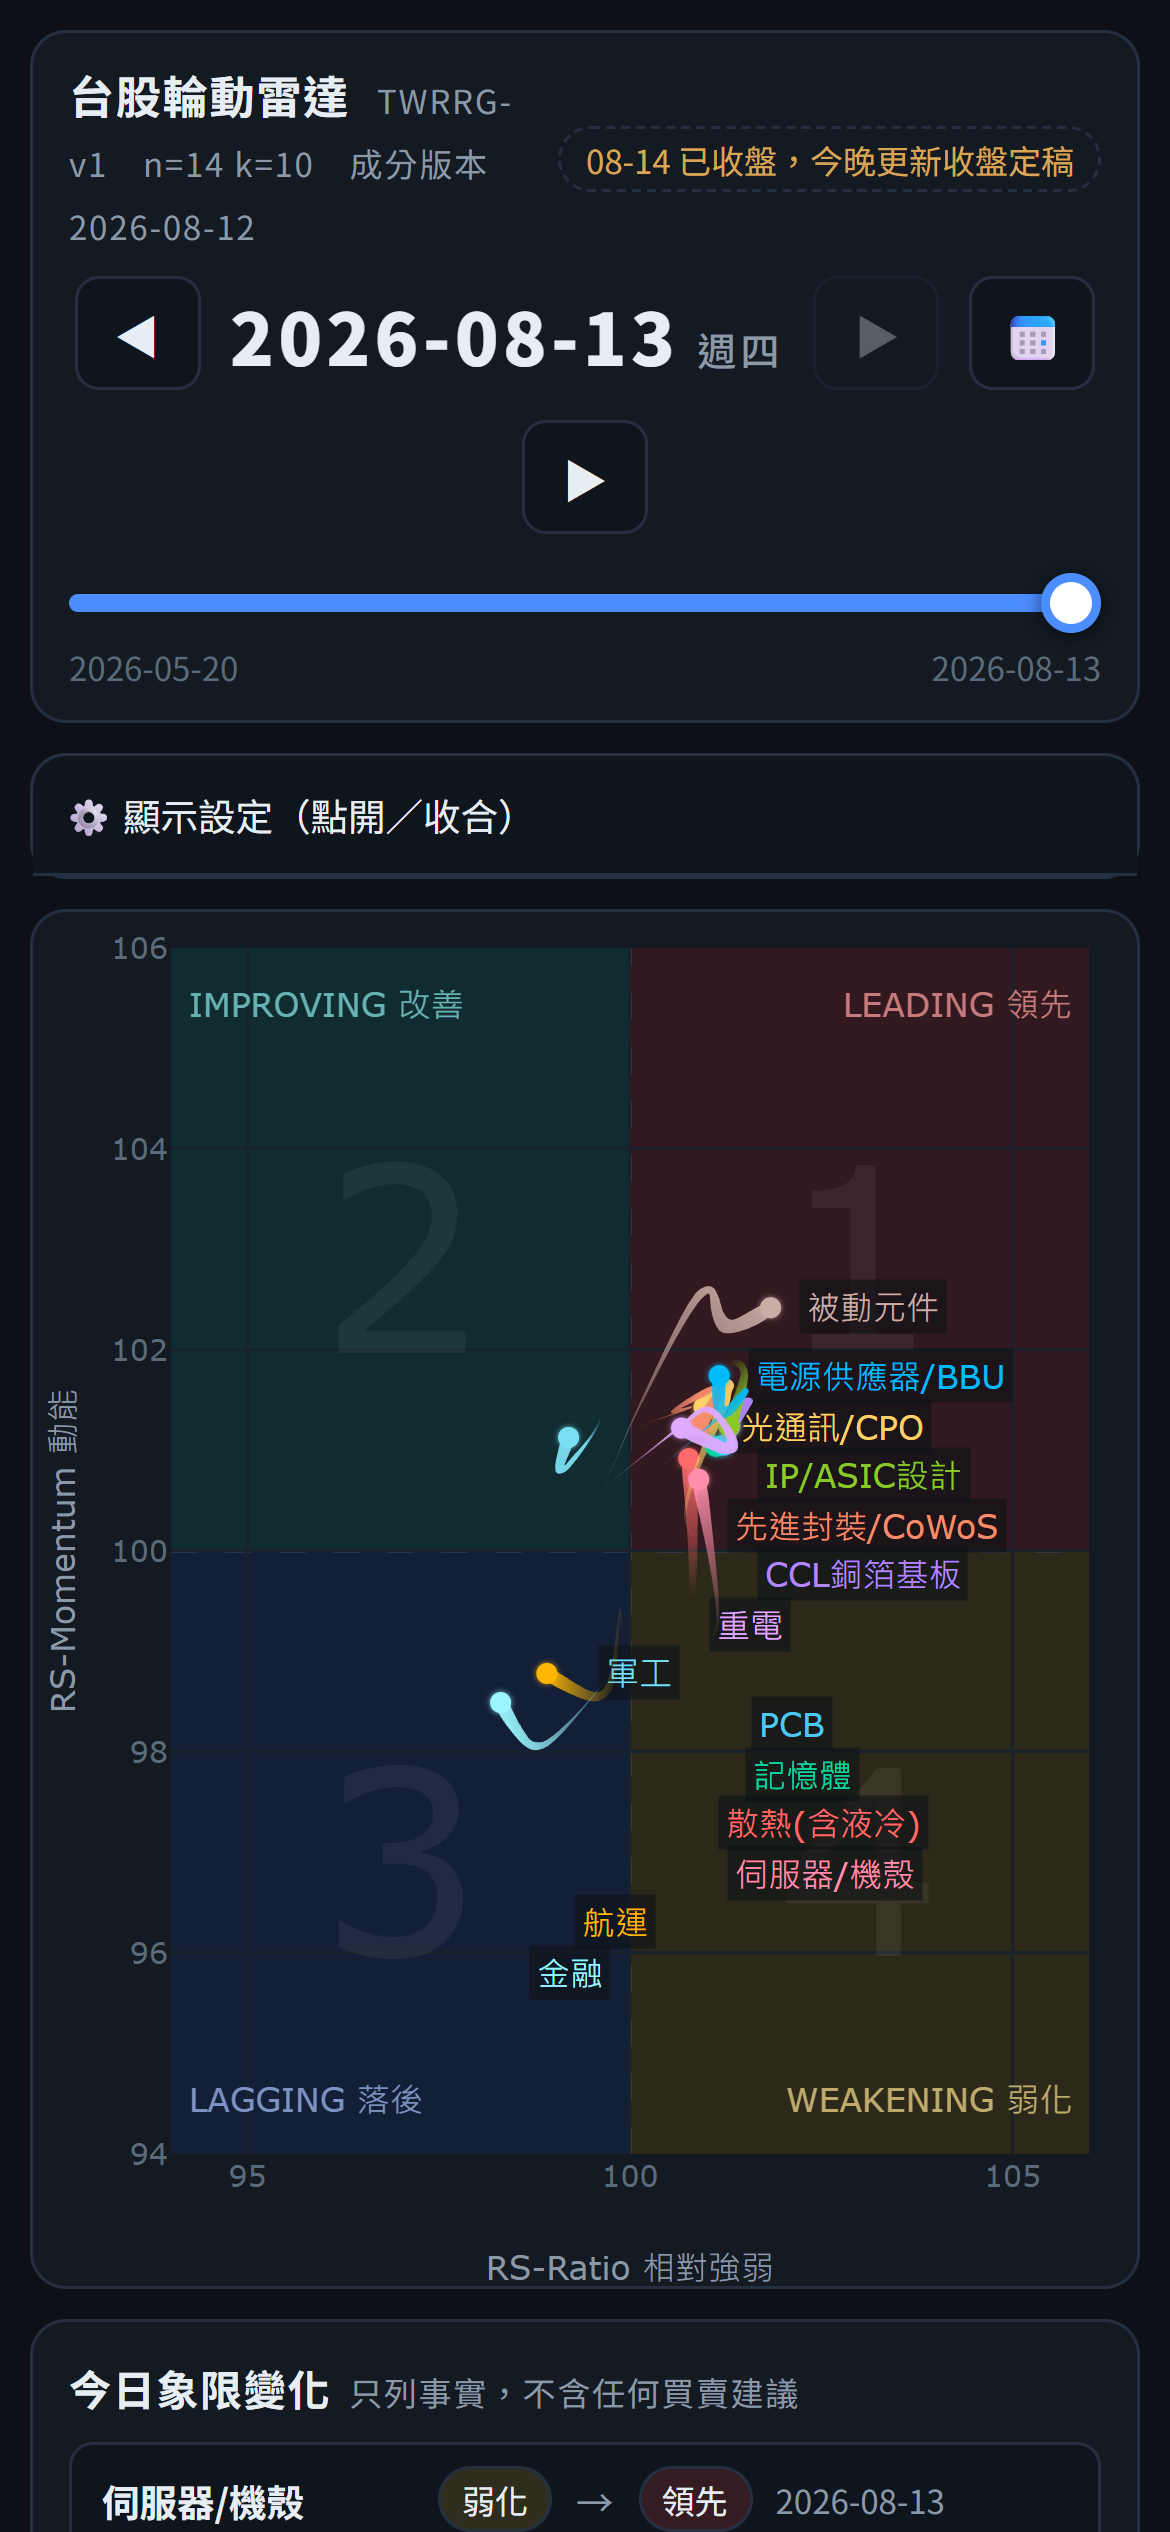
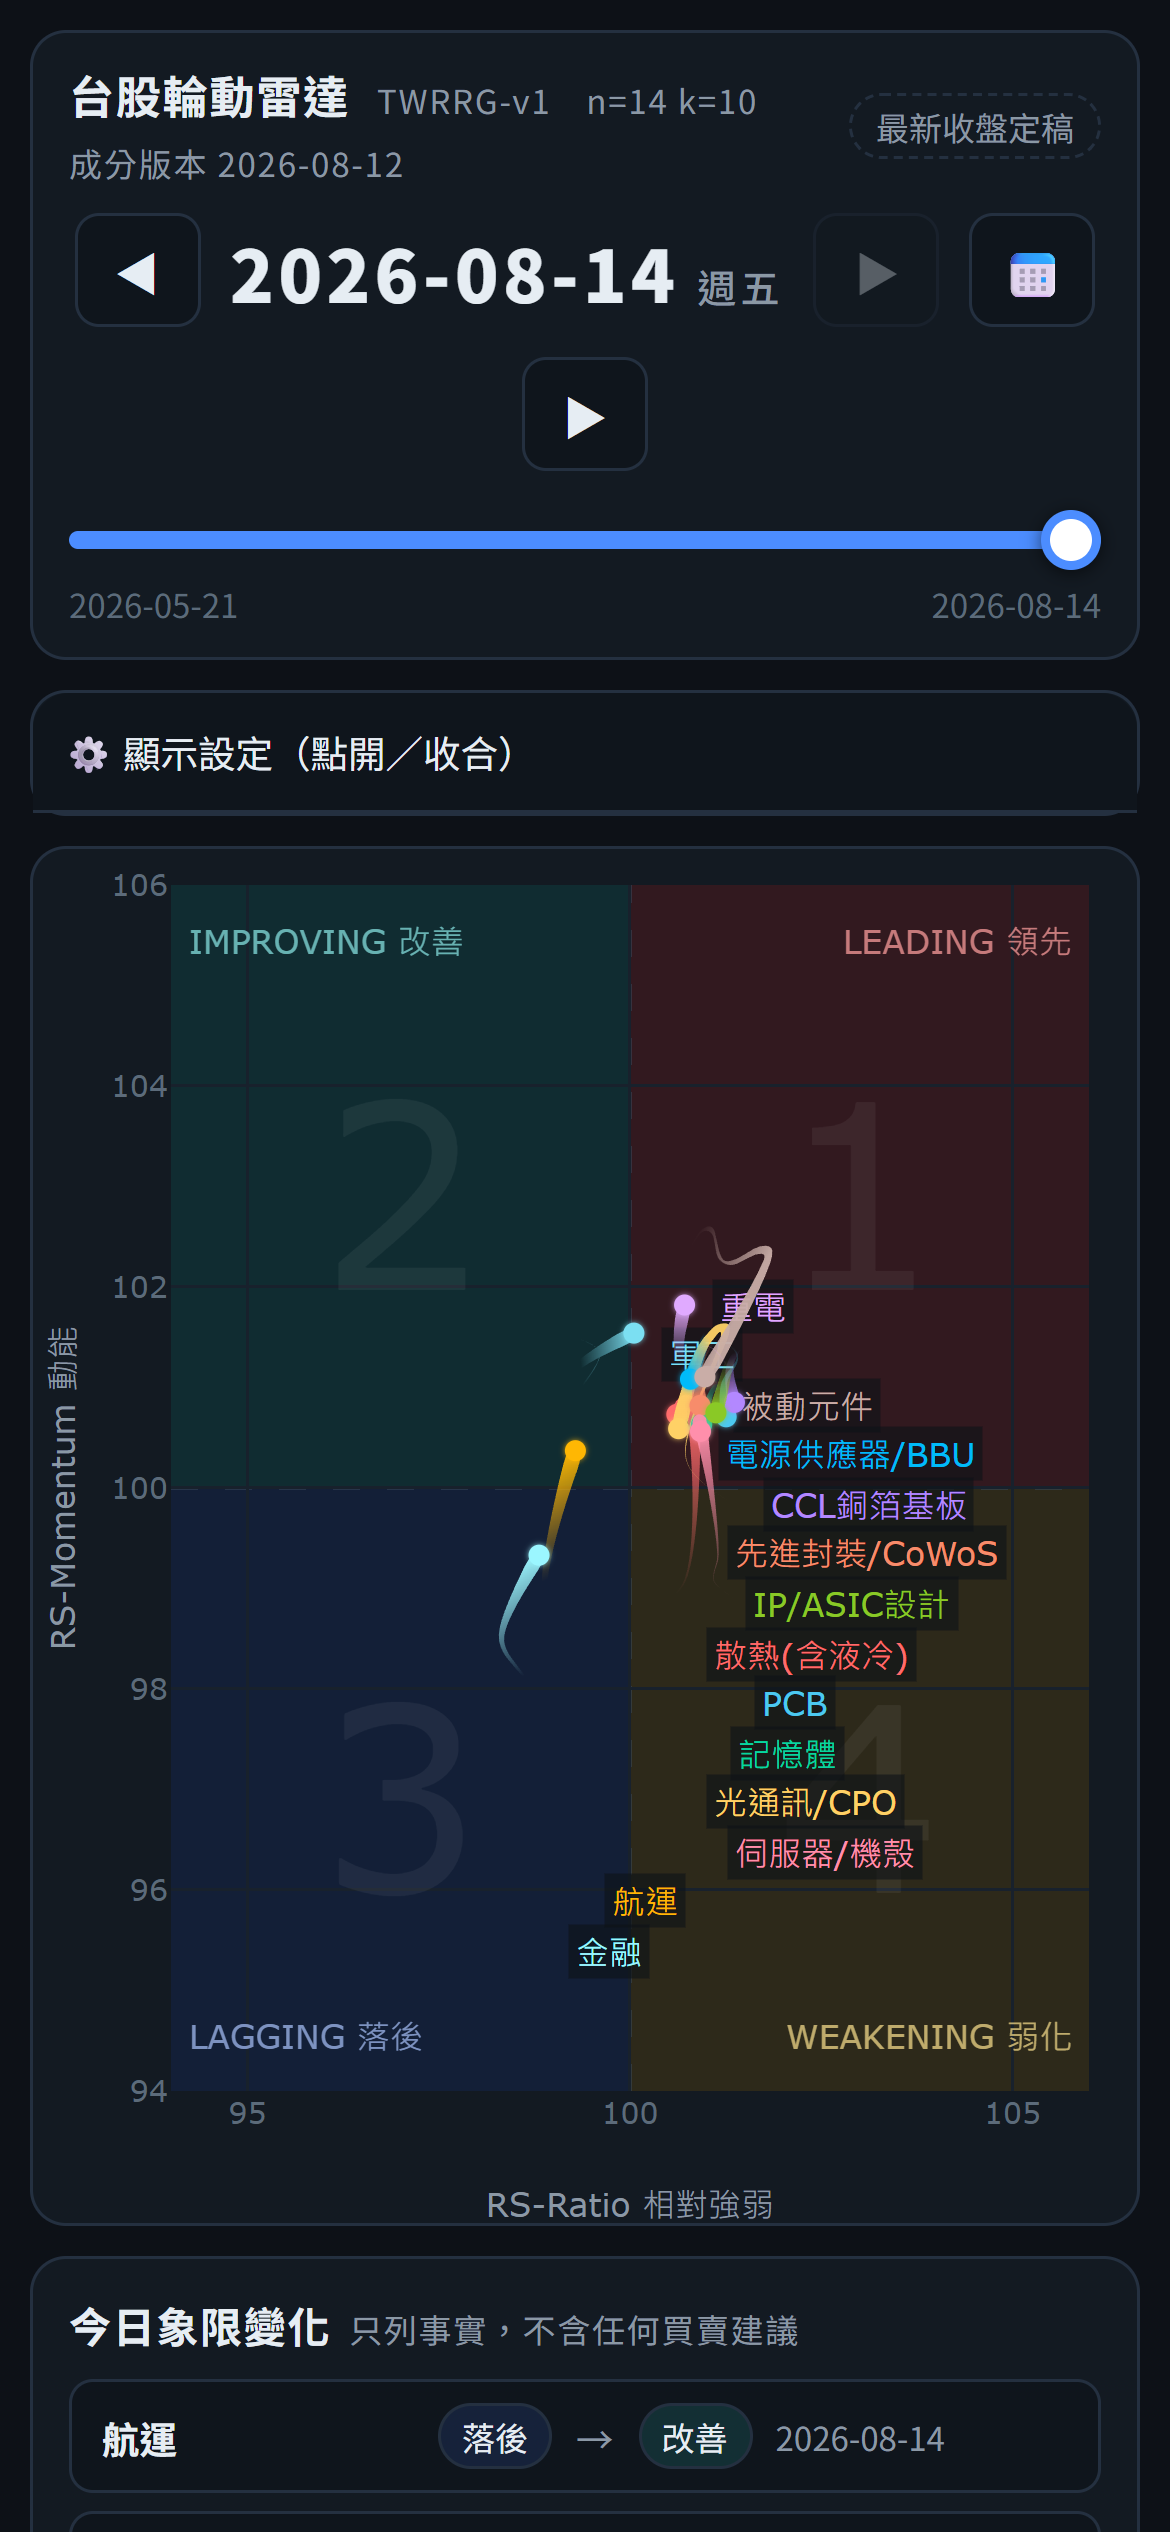
修:定稿落地時 chip 與頁尾自相矛盾(當場量到)
20:16 今日收盤定稿真的發布後,線上出現:
chip 寫「最新收盤定稿」,頁尾同時寫「收盤定稿由每日排程產生…」。
liveNote() 沒有跟 applyClosedChip() 用同一個「今天定稿了沒」的條件。
已修並加迴歸鎖。這個 bug 不是讀程式碼讀出來的,是資料真的動了才量到的。

diff --git a/docs/index.html b/docs/index.html
@@ -1010,8 +1010,11 @@ function liveBanner(){
 /* 頁尾即時層說明：文案跟著真實模式走，不是寫死的宣傳詞。 */
 function liveNote(){
   const el=$('liveNote'); if(!el) return;
-  // 收盤後、定稿前：把「什麼時候會更新」的實話寫在這裡（chip 空間不夠寫）。
-  if(afterCloseToday()===true){
+  /* 收盤後、【定稿前】：把「什麼時候會更新」的實話寫在這裡（chip 空間不夠寫）。
+     必須跟 applyClosedChip() 用同一個「今天已定稿了沒」的條件，否則會出現
+     chip 寫「最新收盤定稿」、頁尾同時寫「等排程產生」的自相矛盾 ——
+     2026-08-14 20:16 資料真的落地那一刻當場量到。 */
+  if(afterCloseToday()===true && H && H.dates[plottableRange()[1]]!==tpeNow().ymd){
     el.innerHTML='<br>今日已收盤，收盤定稿由每日排程產生（台北 17:50 觸發、19:30 補跑）。'
       +'<b>GitHub 排程實測會延遲</b>：2026-08-13 那一跑 20:14 才落地，所以請以「大日期變成今天」為準，不要以時鐘為準。';
     return;
